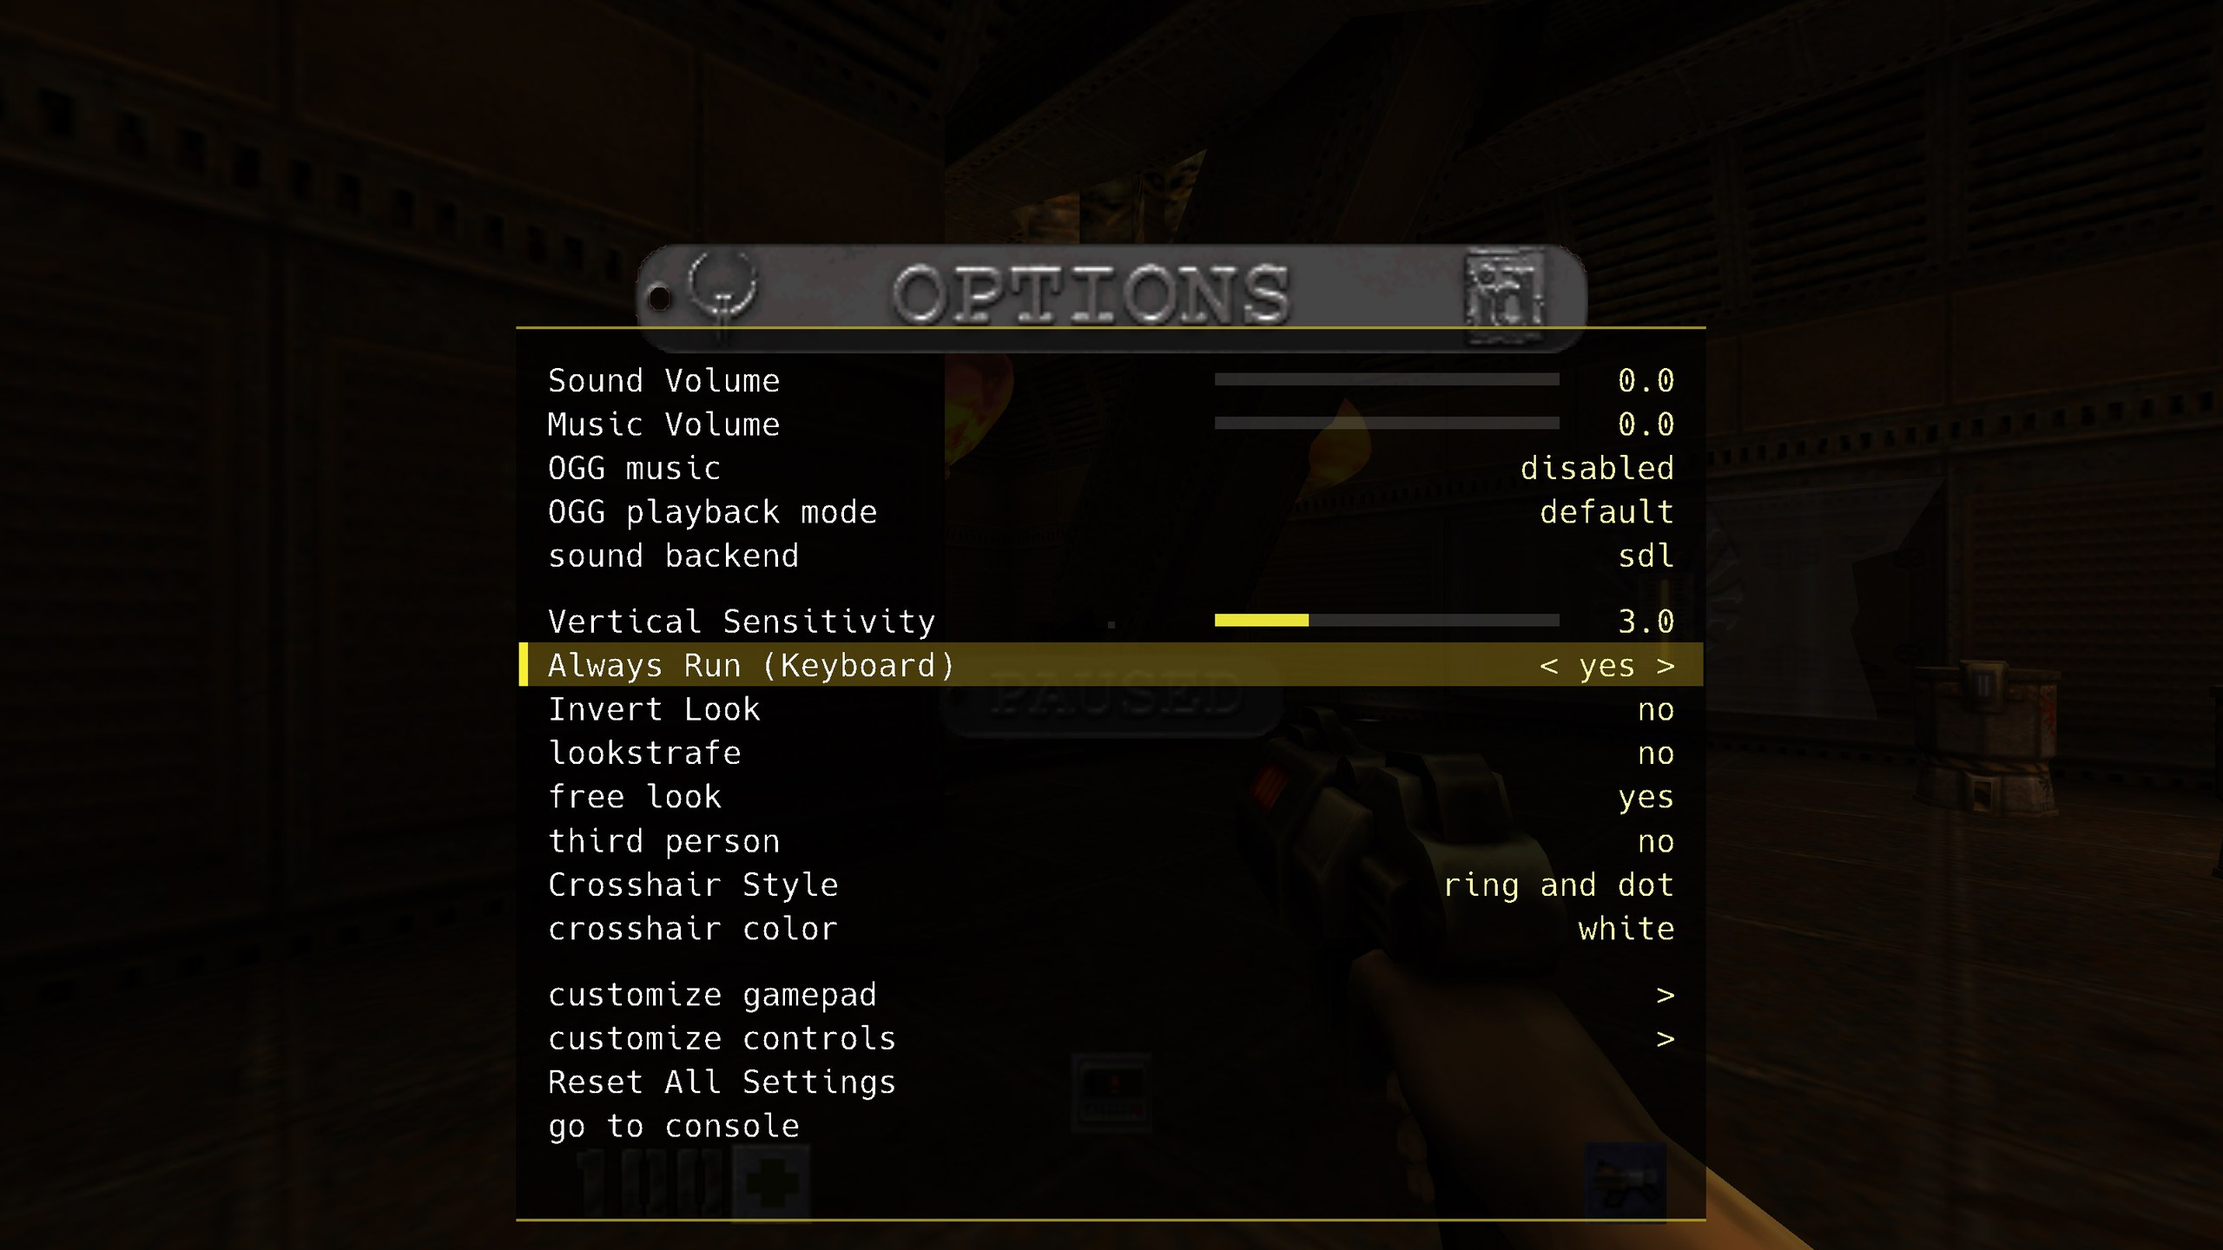
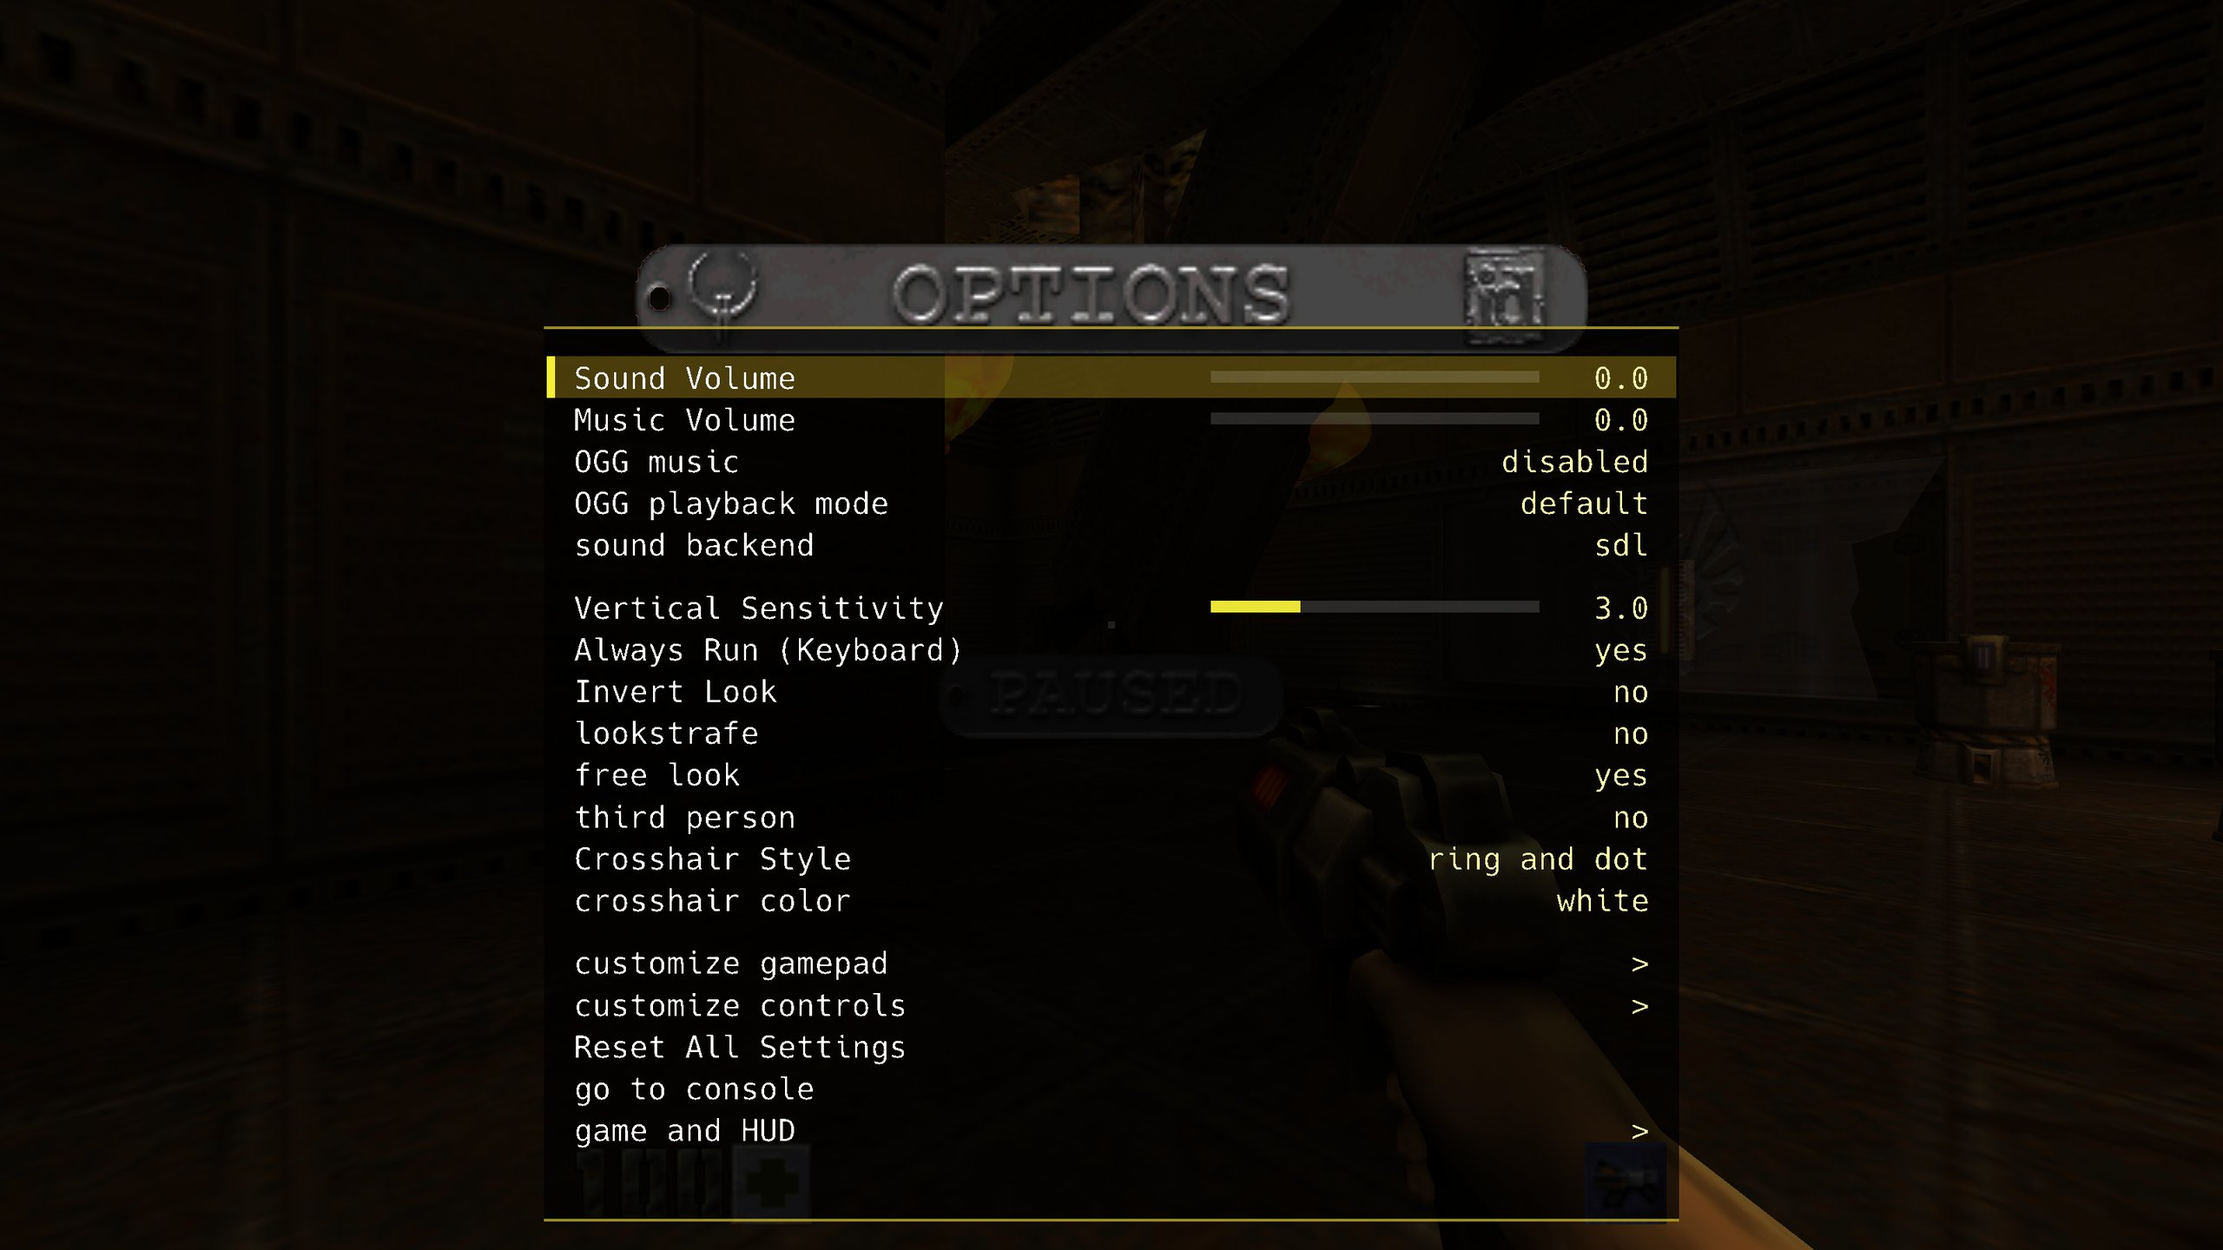
Site, README, roadmap: menus as data pages, game and HUD page, mods menu, drop heights, func_eye, re-release paths by size; new screenshots

diff --git a/docs/index.html b/docs/index.html
@@ -82,7 +82,8 @@
           monster definitions, monster navigation, re-release game libraries (id's own and mods built on it) with
           their movement, HUD, kill feed and weapon wheels, a modern console, and the re-release's game features
           (compass, co-op lives, end-of-unit screen) in the stock game, the re-release's monster AI and the Gunner
-          Commander, and play on either the classic or the re-release game data.</p>
+          Commander, every menu as a data page mods can change, and play on either the classic or the re-release
+          game data.</p>
       </li>
       <li class="milestone later">
         <span class="id">M3</span><h3>Multi-threaded renderer</h3><span class="status">PLANNED</span>
@@ -99,6 +100,80 @@
       </li>
     </ol>
     <p class="roadmap-link"><a href="roadmap.html">Full roadmap, task by task &rarr;</a></p>
+  </div>
+</section>
+
+<section id="latest">
+  <div class="wrap">
+    <h2>New since M2 preview 5</h2>
+    <p class="lead">On <code>main</code> now, in the next preview: every menu as a data page, mods with their own
+      game library from the Mods menu, monsters that know how far they can drop, and Call of the Machine's
+      watching cameras. Screenshots at 2560&times;1440, OpenGL 3.</p>
+    <div class="features">
+      <div class="feature">
+        <h3>Every menu is a data page</h3>
+        <p>All the stock menus are text files a mod can change now: load and save (with pages and deleting),
+          the key and gamepad bindings, video, start and join server, player setup with its turning model, mods,
+          level select, credits and quit. They look like the old ones; <code>menu_builtin &lt;name&gt;</code> still
+          opens the C version. See mods/MENUS.md.</p>
+      </div>
+      <div class="feature">
+        <h3>More settings in the menus</h3>
+        <p>A new Options &rarr; game and HUD page: FPS counter, speed meter, performance overlay, HUD safe zone,
+          crosshair size, message time, console text size, gun hand, view kick, footsteps and more. The video page
+          gains a frame cap and dynamic lights, and multisampling offers only what the graphics card can do.</p>
+      </div>
+      <div class="feature">
+        <h3>Mods from the Mods menu</h3>
+        <p>A folder with a game library is a mod even without a pak, so q2arpg starts from the Mods menu with
+          its own game code, no launcher script needed. Mods with a single episode, like the re-release's
+          Quake II PSX, start that episode from New Game.</p>
+      </div>
+      <div class="feature">
+        <h3>Monsters know their limits</h3>
+        <p>Each monster drops off ledges only as far as it should: most up to 256 units, Gladiators and Medics 192,
+          Tanks 128, the Supertank 64, bosses never. Monster definitions take <code>drop_height</code>. Re-release
+          games' monsters now path on the mesh for their own size too.</p>
+      </div>
+      <div class="feature">
+        <h3>Cameras that watch you</h3>
+        <p>The hanging cameras in Call of the Machine's hub turn to follow you while you are in view, fire
+          their map events the first time they see you, and turn back when you leave.</p>
+      </div>
+      <div class="feature">
+        <h3>Fixes from playing</h3>
+        <p>Bloom no longer hides the menu panels (OpenGL 3 and 4); the CTF HUD shows the right team, flag and
+          tech; a single player game after CTF is no longer deathmatch; level select starts the picked level on the
+          re-release's data; a save of a missing map is refused instead of a fatal error.</p>
+      </div>
+    </div>
+    <div class="gallery" style="margin-top:16px">
+      <figure class="wide">
+        <a href="assets/img/menus-gameoptions.jpg"><img src="assets/img/menus-gameoptions.jpg" width="2560" height="1440" loading="lazy"
+          alt="A menu page with HUD, view and game settings: show FPS, HUD safe zone, gun hand, footsteps"></a>
+        <figcaption>Options &rarr; game and HUD: settings the stock menus never had, as a data page.</figcaption>
+      </figure>
+      <figure>
+        <a href="assets/img/menus-loadgame.jpg"><img src="assets/img/menus-loadgame.jpg" width="2560" height="1440" loading="lazy"
+          alt="The load game page listing save slots, with pages 1 to 4 at the bottom"></a>
+        <figcaption>Load game as a data page: slots a page at a time, del then y deletes.</figcaption>
+      </figure>
+      <figure>
+        <a href="assets/img/menus-video.jpg"><img src="assets/img/menus-video.jpg" width="2560" height="1440" loading="lazy"
+          alt="The video page: renderer, mode, max fps, brightness and the renderer's own settings"></a>
+        <figcaption>The video page: settings that restart the video wait for Apply.</figcaption>
+      </figure>
+      <figure>
+        <a href="assets/img/rr-func-eye.jpg"><img src="assets/img/rr-func-eye.jpg" width="2560" height="1440" loading="lazy"
+          alt="A camera hanging from the ceiling, its red lens turned toward the viewer"></a>
+        <figcaption>One of the hub's cameras in Call of the Machine, turned to look at you.</figcaption>
+      </figure>
+      <figure>
+        <a href="assets/img/nav-drop-height.jpg"><img src="assets/img/nav-drop-height.jpg" width="2560" height="1440" loading="lazy"
+          alt="A Supertank standing on top of a wall of crates, above the player"></a>
+        <figcaption>A Supertank stays on a 128-unit ledge and fires from it; a Berserker would drop down.</figcaption>
+      </figure>
+    </div>
   </div>
 </section>
 
@@ -152,7 +227,7 @@
         <a href="assets/img/menus-options.jpg"><img src="assets/img/menus-options.jpg" width="2560" height="1440" loading="lazy"
           alt="The options menu in the re-release look: a dark panel, a highlighted row, sliders as bars, values on the right"></a>
         <figcaption>The options menu in the re-release look, a data page mods can replace: the crosshair list names the
-          re-release's own 29 crosshairs.</figcaption>
+          re-release's own 29 crosshairs, and the last line opens the new game and HUD page.</figcaption>
       </figure>
       <figure class="wide">
         <a href="assets/img/menus-main.jpg"><img src="assets/img/menus-main.jpg" width="2560" height="1440" loading="lazy"
@@ -228,9 +303,9 @@
       <div class="feature">
         <h3>Re-release game libraries</h3>
         <p>Game libraries built for the 2023 re-release (its game API, <code>game_x64</code>) load and play:
-          id's own game code and mods built on it, such as the loot mod q2arpg. Saves, loads and level changes
-          use the game's own save files, and the client predicts with the library's movement code, so it moves
-          exactly like the server.</p>
+          id's own game code and mods built on it, such as the loot mod q2arpg, picked from the Mods menu. Saves,
+          loads and level changes use the game's own save files, and the client predicts with the library's movement
+          code, so it moves exactly like the server.</p>
       </div>
       <div class="feature">
         <h3>Wheels, kill feed, chat</h3>
@@ -281,8 +356,9 @@
       <div class="feature">
         <h3>Monsters find their way</h3>
         <p>Every map gets a navigation mesh when it loads (Recast/Detour, built in under a second and cached), in
-          three sizes so a Tank isn't sent through a gap only a soldier fits. Walking monsters follow it around
-          walls, step off ledges and ride lifts to reach you, where stock monsters gave up. On the re-release's
+          three sizes so a Tank isn't sent through a gap only a soldier fits (in re-release games too). Walking
+          monsters follow it around walls, step off ledges as high as each can take, and ride lifts to reach you,
+          where stock monsters gave up. On the re-release's
           maps, the jumps in its bot navigation files are read too, so monsters that can jump leap onto
           ledges and across gaps, climb ladders and take teleporters to get at you.</p>
       </div>
@@ -554,8 +630,8 @@
           who plays together needs OpenTech2.</p>
         <p>What does carry over is the re-release's <em>data</em>: if you own it, point OpenTech2 at its
           <code>rerelease</code> folder to get its episodes, texts and videos. Re-release game libraries (a mod
-          folder's <code>game_x64.dll</code>, or <code>game_x64.so</code> built for Linux) load too, but
-          multiplayer still means everyone runs OpenTech2.</p>
+          folder's <code>game_x64.dll</code>, or <code>game_x64.so</code> built for Linux) load too, from the
+          Mods menu, but multiplayer still means everyone runs OpenTech2.</p>
       </details>
       <details>
         <summary>Where are my saves and settings?</summary>
@@ -662,6 +738,10 @@ console lines lands in <code>crashes/</code> in your user folder (<code>~/.local
 instead of the game library (shells, linked models, flares), to compare the two.</td></tr>
 <tr><td><code>cmd playerinfo</code></td><td>Cheat: prints game time, health, ammo and your position in
             one line; the automated checks use it.</td></tr>
+          <tr><td><code>ui_menustyle 0</code> / <code>1</code></td><td>The classic menu look / the
+            re-release's (default: the re-release look on its data, classic on the classic data).</td></tr>
+          <tr><td><code>menu_builtin options</code></td><td>For modders: opens the stock C menu even when a data
+            page replaces it, to compare the two (<code>menu &lt;name&gt;</code> opens any data page).</td></tr>
         </tbody>
       </table>
     </div>
@@ -706,9 +786,15 @@ instead of the game library (shells, linked models, flares), to compare the two.
         <h3>Item and monster definitions</h3>
         <p>Change items or add new ones in a text file, <code>defs/&lt;folder&gt;.items</code>: a new item copies an
           existing one (<code>"base" "weapon_shotgun"</code>) and changes its name, ammo, models or amounts, and weapons
-          take their damage, pellets, spread and projectile speed. Monsters get their health, skin, size and damage
-          from <code>defs/&lt;folder&gt;.monsters</code>. See
+          take their damage, pellets, spread and projectile speed. Monsters get their health, skin, size, damage
+          and how far they drop off ledges from <code>defs/&lt;folder&gt;.monsters</code>. See
           <code>mods/DEFINITIONS.md</code>.</p>
+      </div>
+      <div class="feature">
+        <h3>Menus</h3>
+        <p>Every menu is a text file, <code>menus/&lt;name&gt;.menu</code>: a mod replaces a stock page by its
+          name or adds its own, with sliders, choices, fields, key bindings and lists made by a small Lua script.
+          They take the re-release look on its data. See <code>mods/MENUS.md</code>.</p>
       </div>
     </div>
   </div>

diff --git a/docs/roadmap.html b/docs/roadmap.html
@@ -65,7 +65,7 @@
           <li class="done">Client game API (the 2022 re-release cgame API)</li>
           <li class="done">HUD in the module (id's re-release HUD code)</li>
           <li class="done">Effects in the module: explosions, beams, muzzle flashes, trails, footsteps, and how every entity is drawn (powerup shells, translucency, rotating items, linked weapons, flares, the view weapon and its powerup shell, shadow lights)</li>
-          <li class="done">Menus as data: pages are text files with Lua scripts for lists; every menu in the re-release's look on its data, with the mouse</li>
+          <li class="done">Menus as data: every stock menu is a text file mods can change or add to, with Lua scripts for lists; every menu in the re-release's look on its data, with the mouse</li>
           <li class="done">Match the re-release APIs so re-release mods load unchanged: client and server game APIs, with the re-release's features (compass, wheels, co-op lives, end-of-unit screen, debug drawing, monster paths); bots come later</li>
         </ul>
       </div>
@@ -97,7 +97,7 @@
       <div class="task-group">
         <h3>Gameplay systems <span>1 / 5</span></h3>
         <ul class="tasks">
-          <li class="done">Monster navigation (Recast / Detour): a navigation mesh built for every map in three monster sizes, with ledge drops; walking monsters follow it, ride lifts, and use the re-release's jump, leap, ladder and teleporter links</li>
+          <li class="done">Monster navigation (Recast / Detour): a navigation mesh built for every map in three monster sizes, with ledge drops as high as each monster can take; walking monsters follow it, ride lifts, and use the re-release's jump, leap, ladder and teleporter links; re-release games' monsters path on the mesh for their size</li>
           <li>Animation system on IQM: blending, layers, events</li>
           <li>Physics: Jolt for rigid bodies, ragdolls and debris</li>
           <li class="part">Scalable Unicode text; HUD and menus that scale (TrueType console and menu text done)</li>
@@ -124,6 +124,9 @@
           <li class="done">The re-release's episodes in the Game menu: Quake II, The Reckoning, Ground Zero, Call of the Machine, Quake II 64</li>
           <li class="done">Vulkan renderer built and shipped with every release</li>
           <li class="done">Menus in the re-release's look on its data, the classic look on the classic data; the mouse works every menu</li>
+          <li class="done">Options &rarr; game and HUD: settings the stock menus never had (FPS counter, HUD safe zone, gun hand, footsteps...); the video page offers only the multisampling the graphics card can do</li>
+          <li class="done">Mods with only a game library (q2arpg) start from the Mods menu; a mod's single episode (Quake II PSX) starts from New Game</li>
+          <li class="done">Call of the Machine's watching cameras (<code>func_eye</code>) follow the player</li>
           <li class="done">Automated checks: over forty game checks, most of them headless, run on both data sets</li>
         </ul>
       </div>

diff --git a/README.md b/README.md
@@ -32,7 +32,10 @@ and assets keep loading and serve as test content.
   Hack TrueType font), the Vulkan renderer in the default build, and the re-release's game features in
   the stock game: compass trail, co-op squad respawn and lives, end-of-unit screen, re-release weapon and
   monster balance (`g_classic_balance 1` for the original), monsters that see before they listen, and
-  footsteps by floor material. Two full code reviews with every finding fixed. Network protocol 2027.
+  footsteps by floor material; the re-release's monster AI (clear shots, dodging, per-monster tweaks) and
+  the Gunner Commander; every menu as a data page mods can change, with an Options > game and HUD page;
+  crash reports; per-monster ledge drop heights; Call of the Machine's watching cameras. Code reviews with
+  every finding fixed. Network protocol 2027.
 
 Downloads (pre-releases, Windows and Linux): https://github.com/Rizilla-OG/OPtech2/releases
 
@@ -63,6 +66,8 @@ each starting with its own intro.
 
 Game libraries built for the re-release (its game API 2023) load too: a game or mod folder with
 `game_x64.so` (`game_x64.dll` on Windows) and no `game.so` gets it, for both server and client game.
+Such a folder shows in the Mods menu even without a pak file (q2arpg), and a mod whose map list has one
+episode (Quake II PSX) starts it from New Game.
 Saves, loads and level changes use the game's own save files. `tools/rerelease/stock_game` builds
 id's stock game for Linux.
 
@@ -125,7 +130,8 @@ HUD, movement), see [mods/testmod](mods/testmod/README.md).
 
 Every map gets a navigation mesh when it loads (Recast/Detour; one per monster size, built in under
 a second, cached in `navigation/<map>.otnav` in the game folder). Walking monsters that can't walk
-straight at you follow it: around walls, off ledges up to 256 units high, and onto lifts
+straight at you follow it: around walls, off ledges as high as each can take (most 256 units, Tanks 128,
+the Supertank 64, bosses never; `drop_height` in a monster definition), and onto lifts
 (`func_plat`), which they call and ride. With the re-release's data, the barrier jumps in its bot
 navigation files (`bots/navigation/<map>.nav`) are added too: monsters that can jump (Berserker,
 Gunner, Infantry, Mutant, Parasite) jump up onto ledges, over barriers and across gaps where those
@@ -172,7 +178,9 @@ clock. `run_all.py --headless` runs only the checks that need no window or sound
 - `python3 tests/maps/make_jump_map.py`, then `tests/nav/jump_check.py`: a Berserker jumps up a ledge through a gap, using a re-release navigation file's barrier jump
 - `python3 tests/maps/make_leap_map.py`, then `tests/nav/leap_check.py`: a Berserker leaps a pit, using a re-release navigation file's long jump
 - `python3 tests/maps/make_ladder_map.py`, then `tests/nav/ladder_check.py`: a Berserker climbs a ladder to a balcony and takes a teleporter into a vault
-- `python3 tests/run_all.py`: all of the above
+- `python3 tests/menus/datamenu_check.py`: menu pages from files, the shipped pages against the stock menus, scripts, mouse
+- `python3 tests/rerelease/rr_path_check.py`: a re-release game's monsters path on our mesh (a Berserker through a slot, a Tank around)
+- `python3 tests/run_all.py`: all of the above and more (`--list` names them)
 
 ## Code scanning
 
